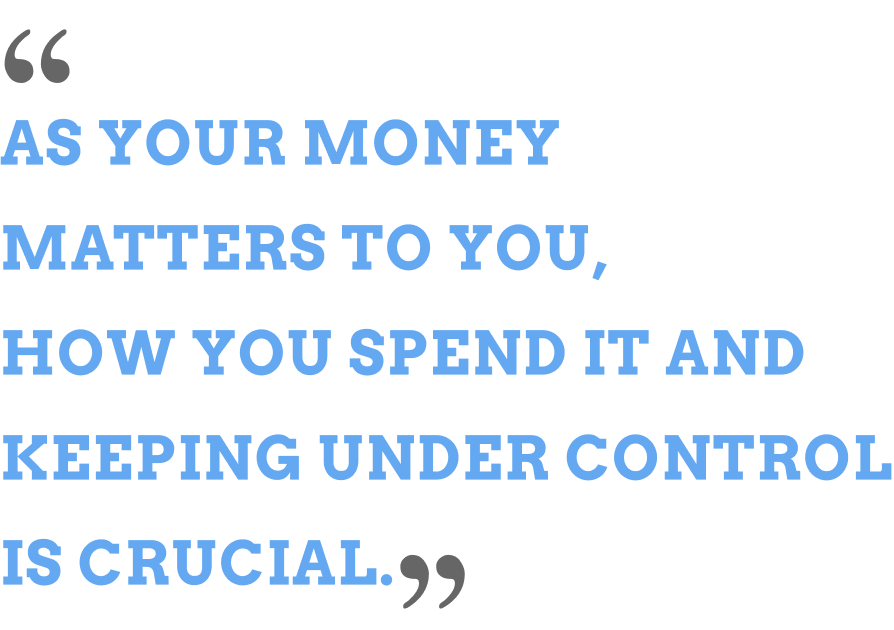
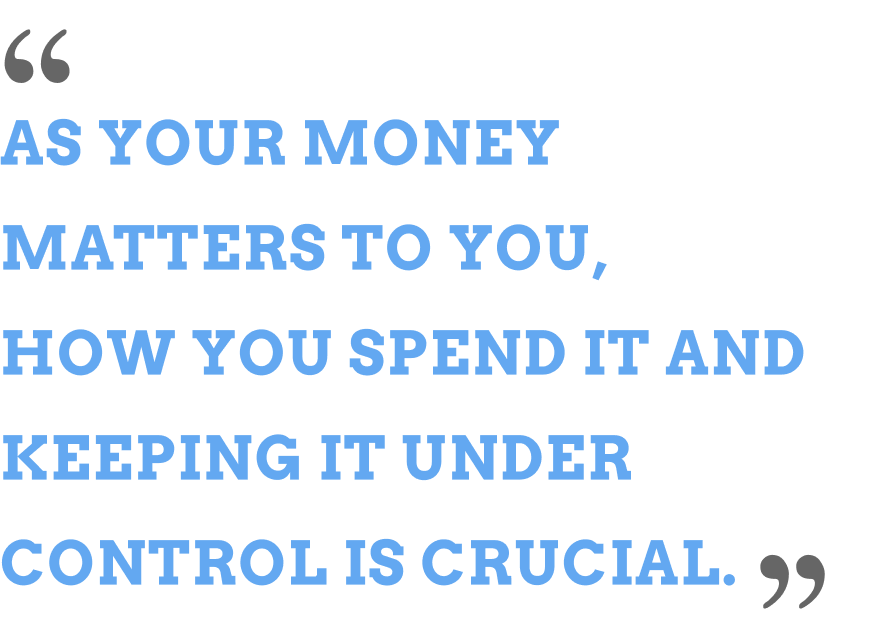
chore: fixing any grammar/spelling errors
I have double-checked any grammar/spelling errors throughout the whole screens.

There were minor contents modifications as well. Depending on the context and the goals, some contents were removed or enhanced for a better explanation.

Changed region(s): [[0.0, 0.8444, 0.9362, 0.9651], [0.3624, 0.6635, 1.0, 0.7841]]

diff --git a/src/Personas.js b/src/Personas.js
@@ -81,13 +81,13 @@ export default function Personas() {
                             <ol>
                                 <li>Aimee goes shopping in the city centre and spends 80 pounds for her mum's birthday present.</li>
                                 <li>As soon as she gets a seat at a cafe after the shopping, she grabs her mobile and opens the Pockie app.</li>
-                                <li>From the home screen, she touches the add button which is located in the centre of the bottom tab navigation.</li>
+                                <li>From the home screen, she touches the Add button which is located in the centre of the bottom tab navigation.</li>
                                 <li>Pockie opens the record screen and Aimee starts filling in the form with her shopping details in the expense section as follows;</li>
-                                <li>In the centre of the screen, she fills in 80 pounds, which was her total expenditure for the shopping earlier, and she chooses the description, 'gift' from the dropdown menu. Finally she saves the details.</li>
-                                <li>After she orders a black coffee at the cafe, she checks her bill and fills in the expense section with 2.50 pounds, and selects 'food & drink' in the same way in the expense section again.</li>
-                                <li>She wants to check that she has been paid from her work today. So, she opens her app and starts filling in the details.</li>
+                                <li>In the centre of the screen, she fills in 80 pounds, which was her total expenditure for the shopping earlier, and she chooses the description, 'gift' from the dropdown menu. Finally she saves the details by touching the Save button.</li>
+                                <li>After she orders a black coffee at the cafe, she checks her bill and fills in the expense section with 2.50 pounds after touching the Add button again, She then selects 'food & drink' from the dropdown menu in the Description section again.</li>
+                                <li>She wants to include her income as she has been paid from her work today. So, she opens her app and starts filling in the details as follows:</li>
                                 <li>She touches the add button in the bottom tab navigation and chooses the income tab on the top.</li>
-                                <li>Next, she fills in the total income of 2,500 pounds with the description as a salary and non-personal mode and saves it.</li>
+                                <li>Next, she fills in the total income of 2,500 pounds with the description as 'salary' and non-personal mode, and saves it.</li>
                                 <li>She tabs the profile screen icon which is positioned on the right hand side of the bottom tab navigation to check the overview of her current finance state.</li>
                                 <li>She can see her profile picture and her name below and she checks that she has spent 105 pounds and 2,500 pounds have come into her account today.</li>
                                 <li>She sees her spending pattern pie chart and realizes that her major expenditures are rent, bills and tax.</li>
@@ -102,14 +102,14 @@ export default function Personas() {
                     <section>
                         <ol>
                             <li>Her partner and Aimee decide to buy a house together for their future.</li>
-                            <li>So, she decided to use Pokie to keep them motivated setting a joint goal with her partner to save more money for a bigger deposit.</li>
+                            <li>So, she decides to use Pokie to keep them motivated, setting a joint goal with her partner to save more money for a bigger deposit.</li>
                             <li>First, her partner opens an account and then adds her as a partner using her id.</li>
                             <li>Now they are able to share their saving goal information together as long as it's not in private mode.</li>
-                            <li>She tabs the button 'set a goal' and it opens up the screen.</li>
-                            <li>And then, she chooses the purpose of the goal as buying a house, sets the joint goal to 10,000 pounds, the duration of saving is set to a year. and she also chooses her partner as a joint saving participant.</li>
-                            <li>Every month, she gets paid, she saves minimum 500 pounds and it has been over 6 months since her partner and she started saving.</li>
-                            <li>She touches the number of saving goal box in the profile screen and it opens up the saving goal screen.</li>
-                            <li>She sees that her partner and she have saved more than half of their aim for the last 6 months and she is very pleased that they are on the right track.</li>
+                            <li>She taps the button 'set a goal' and it opens up the screen.</li>
+                            <li>And then, she chooses the purpose of the goal as buying a house, sets the joint goal to 10,000 pounds and the duration of saving is set to a year. She also chooses her partner as a joint saving participant.</li>
+                            <li>Every month, she gets paid, she saves a minimum 500 pounds and it has been over 6 months since her partner and she started saving.</li>
+                            <li>She touches the number of saving goals box in the profile screen and it opens up the saving goal screen.</li>
+                            <li>She sees that her partner and she have saved more than half of their goal for the last 6 months and she is very pleased that they are on the right track.</li>
                         </ol>
                     </section>
                 </Card.Body>
@@ -131,7 +131,7 @@ export default function Personas() {
                 </Card.Body>
                 <Card.Footer>
                     <small className="text-muted">
-                    Onboarding system may not be able to deliver within the timeline. In this case, I will provide prebuilt user data.
+                    Onboarding system may not be deliverable within the timeline. In this case, I will provide prebuilt user data.
                     </small>
                 </Card.Footer>
             </Card>
@@ -144,7 +144,7 @@ export default function Personas() {
                         <ul>
                             <li>Building a healthy financial habit</li>
                             <li>Taking control of their money</li>
-                            <li>Having a better insight regarding their spending habits</li>
+                            <li>Having better insight regarding their spending habits</li>
                             <li>Being mindful of their financial state</li>
                             <li>Building a transparent financial relationship with others via Pockie</li>
                         </ul>

diff --git a/src/Critique.js b/src/Critique.js
@@ -17,8 +17,8 @@ export default function Critique() {
             <Row className="p-3">
                 <h5 className="font-weight-bold">Target Audience</h5>
                 <section>
-                    As the app can be used by anyone who wishes to have better finance management personally, There is no restriction, such as age, sex or occupation. 
-                    The app could support multiple currencies and it aims for the global market.
+                    As the app can be used by anyone who wishes to have better finance management personally, there is no restriction, such as age, gender or occupation. 
+                    The app could potentially support multiple currencies and it is aimed at the global market.
                 </section>
             </Row>
             <Row className="p-3">
@@ -27,24 +27,25 @@ export default function Critique() {
                     <p>Once I open the application after the signup and creating a wallet, it starts with the screen that I was on when I last used the app.
                     I believe this was intentional from both engineering and ux perspectives. 
                     Most mobile applications take some time to load and they appear to have each splash screen.
-                    My speculation is that the spendee may have aimed to give quicker access to its users in order to quickly update their new finance expenditure or income as a longer loading time could put a strain on usability.</p>
+                    My speculation is that Spendee may have aimed to give quicker access to its users in order to quickly update their new finance expenditure or income as a longer loading time could put a strain on usability.</p>
                     <small>I noticed that a splash screen appears at the first loading of each day.</small>
                 </section>
             </Row>
             <Row className="p-3">
                 <h5 className="font-weight-bold">Home Screen</h5>
                 <section>
-                    <p>Multiple wallets can be created from the Home screen per user.
+                    <p>Multiple wallets per user can be created from the Home screen.
                     They may have started like Pockie and as time went by, they may have added multiple wallet features.
                     This is worth quantitive research to find out what other people would think about the feature.
-                    From my perspective, as this is a personal app, having multiple wallets seems to be unmanageable and cumbersome for users.</p>
+                    From my perspective, as this is a personal app, having multiple wallets could be seen unmanageable and cumbersome for users.
+                    </p>
                     <p>
-                    As customers would be able to check their accounts with mobile banking apps these days, I am not convinced that the main purpose of the finance app is to try to take over those.
+                    As customers are able to check their accounts with mobile banking apps these days, I am not convinced that the main purpose of the finance app is to try to take over from those.
                     Having multiple wallets may be seen as a good feature, but, it seems to be an inordinate feature and I would consider the re-evaluation of it.
-                    Pockie provides personal/joint options for users instead. So, If users want to keep a certain type of expenditure for a personal use, it won't be shared.
+                    Pockie provides personal/joint options for users instead.
                     </p>
                     <p>Spendee is an app to provide an one-way finance system so that users can instantly check their whole financial state as a single source.
-                    But, it tries to carry out multiple purposes for users, I feel it's too bulky and complex, and is quite distracting.</p>
+                    But, as it tries to carry out multiple purposes for users, I feel it's too bulky and complex, and is quite distracting.</p>
                     <div className="container">
                         <div class="row justify-content-center">
                             <p className="col-8">
@@ -94,6 +95,7 @@ export default function Critique() {
                 <h5 className="font-weight-bold">Overview</h5>
                 <section>
                     <p>This is an overview of the wallet. Spendee also has used data visualisation to show users' data in a more intuitive manner.</p>
+                    <p>A Calendar icon is on the top right side corner and when it's touched, users can change the period option to weekly, monthly or yearly.</p>
                     <div className="container">
                         <div class="row justify-content-center">
                             <p className="col-8">
@@ -101,6 +103,13 @@ export default function Critique() {
                             </p>
                         </div>
                     </div>
+                </section>
+            </Row>
+            <Row className="p-3">
+                <h5 className="font-weight-bold">Key takeaways</h5>
+                <section>
+                    <p>As most people use mobile/internet banking these days, Spendee's feature which lets users have multiple wallets based on their number of accounts seems to be rather complex and a repeated process.</p>
+                    <p>After I tried out Spendee for a while, it convinced me to deliver a foolproof and centralized financial app.</p>
                 </section>
             </Row>
         </Layout>

diff --git a/src/Goals.js b/src/Goals.js
@@ -10,19 +10,19 @@ export default function Goals() {
                 <Card.Header>Relational Database Creation</Card.Header>
                 <Card.Body>
                     <p>
-                    This will be the backbone of the application which enable to store user's data and their financial data to interact with the application.
+                    This will be the backbone of the application which enables it to store user's data and their financial data, and to interact with it.
                     </p>
                 </Card.Body>
-                <Card.Footer className="text-muted">Onboarding system may not be able to deliver within the timeline. In this case, I will provide prebuilt user data.</Card.Footer>
+                <Card.Footer className="text-muted">The onboarding system may not be deliverable within the timeline. In such a case, I will provide prebuilt user data.</Card.Footer>
             </Card>
             <Card>
                 <Card.Header>Localization</Card.Header>
                 <Card.Body>
                     <p>
                     This app will provide two currencies, British Pounds and Korean Won.
-                    Based on user's locale data on his/her native device, the main currency will be set up automatically.
-                    Users will be given a choice at the settings whether they want to see the difference between the two currencies.
-                    This feature leaves us the market for the app won't be capped within a country, indicating that the app could potentially be built to target global users.
+                    Based on the user's locale data on his/her native device, the main currency will be set up automatically.
+                    Users will be given a choice at the settings on whether they want to see the difference between the two currencies.
+                    This feature implies the market for the app won't be capped within a country, indicating that the app could potentially be built to target global users.
                     </p>
                 </Card.Body>
             </Card>
@@ -43,9 +43,9 @@ export default function Goals() {
                 <Card.Header>Personalisation & Integration</Card.Header>
                 <Card.Body>
                     <p>
-                    Users can keep track of their income and expenses and it also helps building a healthy habit for users. 
-                    And they can share their financial state with other users to achieve a goal together and to build a transparent partnership.
-                    </p>
+                    Users can keep track of their income and expenses and it also helps to build a healthy habit for users.</p>
+                    <p>Pockie is to help people to keep motivated and awareness of their own financial state and to encourage people to save more money.</p>
+                    <p>Saving goals can be set in either a personal mode or a joint mode and saving data for joint one is integrated into one and all the participants can keep track of the process and their contributions.</p>
                 </Card.Body>
             </Card>
         </CardColumns>

diff --git a/src/Techstacks.js b/src/Techstacks.js
@@ -11,7 +11,7 @@ export default function Techstacks() {
                     <Card.Header>React Native</Card.Header>
                     <Card.Body>
                         <p>
-                        React is a great and the most popular JS library for creating UI components and its features can be used even for native applications
+                        React is a great and popular JS library for creating UI components and its features can even be used for native applications
                         </p>
                     </Card.Body>
                 </Card>
@@ -19,7 +19,7 @@ export default function Techstacks() {
                     <Card.Header>Expo</Card.Header>
                     <Card.Body>
                         <p>
-                        Expo is a great framework for react native using Metro JS bundler to build both of Android and iOS Native Application.
+                        Expo is a great framework for react native using Metro JS bundler to build both Android and iOS Native Applications.
                         </p>
                     </Card.Body>
                 </Card>
@@ -27,7 +27,7 @@ export default function Techstacks() {
                     <Card.Header>Redux</Card.Header>
                     <Card.Body>
                         <p>
-                        A state management library as Pockie will deal with a variety of financial data, having a single source of truth would be more ideal to keep each component more legible and maintainable by applying the design principle, SoC.
+                        Redux is used as a state management library as Pockie will deal with a variety of financial data. Having a single source of truth would be more ideal to keep each component more legible and maintainable by applying the design principle, SoC.
                         </p>
                     </Card.Body>
                 </Card>
@@ -43,8 +43,8 @@ export default function Techstacks() {
                     <Card.Header>PostgreSQL</Card.Header>
                     <Card.Body className="flex">
                         <p>
-                        As you can see the image below, so far there will be 5 relational database table. 
-                        Each Income, Expense, Goal table are connected to User table with each user's unique ID. 
+                        As you can see in the image below, so far there will be 5 relational database tables. 
+                        Each Income, Expense and Goal table is connected to User table with each user's unique ID. 
                         </p>
                         <p>
                             <img src={Database} width="260" alt="pockie database" />

diff --git a/src/prototypes/GoalScreen.js b/src/prototypes/GoalScreen.js
@@ -15,11 +15,11 @@ export default function GoalScreen() {
             <p>Users can check each saving goal's progress with a bar graph and other participants.</p>
             <dl>
               <dt className="sub__title">Personal goal</dt>
-              <dd className="sub__context">User can see how much progress he/she has made with a progress bar. And it shows how many day/week/month left </dd>
+              <dd className="sub__context">Users can see how much progress they have made with a progress bar, and it shows how many days/weeks/months are left </dd>
             </dl>
             <dl>
               <dt className="sub__title">Joint goal</dt>
-              <dd className="sub__context">It has the same functionalities with Personal goal. On top of that, the current user tabs the partner tag, it would show the contribution over the pregress bar.</dd>
+              <dd className="sub__context">It has the same functionalities as the Personal goal. On top of that, when the current user touches the partner tag, it would show the contribution over the progress bar.</dd>
             </dl>
           </div>
           <img src={View} width="340" alt="Viewing saving goals Screen" className="mobile__img" />
@@ -33,11 +33,11 @@ export default function GoalScreen() {
             <ol>
                 <li>
                   <p>Choose the purpose of saving</p>
-                  <small className="reference">It will be a dropdown menu with a set of certain purpose. If none of them are related, users can choose 'others'.</small>
+                  <small className="reference">It will be a dropdown menu with a series of certain purposes. If none of them are related to the user's purpose, they can choose 'others'.</small>
                 </li>
                 <li>The amount of saving</li>
                 <li>The period of saving</li>
-                <li>If users set the goal jointly, users can see their financial partners and choose participants for the saving.</li>
+                <li>If users set the goal jointly, they can see their financial partners and choose participants for the goal.</li>
             </ol>
           </div>
           <img src={Set} width="340" alt="Setting a saving goal Screen" className="mobile__img" />

diff --git a/src/prototypes/RecordScreen.js b/src/prototypes/RecordScreen.js
@@ -2,7 +2,8 @@ import React from 'react';
 import { Col, Row } from 'react-bootstrap';
 
 import Layout from '../components/Layout';
-import Record from '../assets/images/expense_screen.png';
+import Expense from '../assets/images/expense_screen.png';
+import Saving from '../assets/images/saving_screen.png';
 
 export default function RecordScreen() {
   return (
@@ -11,14 +12,20 @@ export default function RecordScreen() {
         <Row className="p-3">
           <div className="screen__context">
             <h6 className="screen__type">Daily Record Screen</h6>
-            <p>The center button(+) On the bottom tab menu leads users to this screen. Users can record their income, expense and saving details on this screen.</p>
-            <p>Each details will be sent to the database server and stored into respective database models. Users can choose whether they want to share the details or not if they have joint account.</p>
+            <p>The centre button(+) On the bottom tab menu from the profile screen leads users to this screen. Users can record their income, expense and saving details on this screen.</p>
+            <p>Each detail will be sent to the database server and stored into respective database models.</p>
+            <p>For the saving tab, users can choose either personal mode or joint mode. The default value can differ whether users choose personal saving goal or not.</p>
             <dl>
               <dt className="sub__title">Description</dt>
-              <dd className="sub__context">This will be a dropdown menu. Depending on the category(expense/income/saving), the list will vary.</dd>
+              <dd className="sub__context">This will be a dropdown menu. Depending on the category(expense/income/saving), the list of the dropdown menu will vary.</dd>
             </dl>
           </div>
-          <img src={Record} width="340" alt="Pockie User Screen" className="mobile__img" />
+          <p>
+            <img src={Expense} className="mobile__img" width="340" alt="Pockie Expense transaction" />
+          </p>
+          <p>
+            <img src={Saving} className="mobile__img" width="340" alt="Pockie Saving transaction" />
+          </p>
         </Row>
       </Col>
     </Layout>

diff --git a/src/Home.js b/src/Home.js
@@ -16,8 +16,8 @@ export default function Home() {
                 up with their expenses and to help them to maintain a
                 healthier financial state. Pockie gives users more
                 control over their money as the app provides services
-                such as, analyzing their spending habits and their usual
-                consumption patterns. It also keeps track of their daily
+                such as, analyzing their spending habits(data visualisation) and their usual
+                consumption patterns. It also allows users to keep track of their 
                 expenses, so they can be more reflective and self-manage
                 their financial state.
             </p>
@@ -25,17 +25,13 @@ export default function Home() {
                 Furthermore, Pockie enables users to achieve a goal or
                 multiple goals with others and to have more transparent
                 money management amongst other users, such as a partner,
-                parents or colleagues, simply by inviting them over.
-                This means that Pockie is not only a personal app but
-                also, it can provide a bookkeeping service for a small
-                business or organisation to keep financial transparency
-                amongst shareholders.
+                parents, simply by inviting them over.
             </p>
             <p>
                 As we live in a modern society promoting consumer
-                culture, we often neglect our money management. <b>As your
-                money matters to you, how you spend it and keeping under
-                control is crucial.</b>
+                culture, we often neglect our money management. As your
+                money matters to you, how you spend it and keeping it under
+                control is crucial.
             </p>
         </Row>
     </Layout>

diff --git a/src/prototypes/ProfileScreen.js b/src/prototypes/ProfileScreen.js
@@ -14,13 +14,12 @@ export default function ProfileScreen() {
             <p>This is the main user profile screen which will appear once a user logs in.</p>
             <ul>
                 <li>
-                  <p>The Slide Button on the Top left side is to let users choose whether they want to see the other currency rate based on their main currency</p>
-                  <p>After an investigation, the live currency conversion service is not available as all of commercial currency API only offer the conversion service with a paid membership. I will just use the average rate for this occasion.</p>
+                  <p>The Slide button on the top left side is to let users choose whether they want to see the other currency rate based on their main currency selection.</p>
+                  <p>After investigation, the live currency conversion service is not available as all commercial currency API only offer the conversion service with a paid membership. As such, the average rate will be for this occasion.</p>
                 </li>
                 <li>Users can see their daily expense and income below their profile image and name</li>
-                <li>Spending Pattern can be interpreted readily by a pie chart during a certain period of time</li>
-                <li>Saving goals can be set</li>
-                <li>Users can invite other users and share their financial state with them</li>
+                <li>Spending patterns can be interpreted readily by a pie chart during a certain period of time so that users can easily tell their spending habits.</li>
+                <li>Saving goals can be set from this screen.</li>
             </ul>
           </div>
           <img src={Profile} width="340" alt="Pockie User Screen" className="mobile__img" />

diff --git a/src/prototypes/InitialScreen.js b/src/prototypes/InitialScreen.js
@@ -12,7 +12,7 @@ export default function InitialScreen() {
         <Row className="p-3">
           <div className="screen__context">
             <h6 className="screen__type">Splash Screen</h6>
-            <p>This is the screen which will appear during the initial app loading.</p>
+            <p>This is the screen which will appear while the initial app loads.</p>
           </div>
           <img src={Splash} width="340" alt="Pockie Splash Screen" className="mobile__img" />
         </Row>
@@ -22,7 +22,7 @@ export default function InitialScreen() {
           <div className="screen__context">
             <h6 className="screen__type">Login/SignUp Screen</h6>
             <p>A new user is required to sign up before using the app and current users need to log in to record their data.</p>
-            <p>Onboarding System is not in the scope of this version. Depending on the progression of the development, I may provide prebuilt user data for testing.</p>
+            <p>An Onboarding System is not in the scope of this version. Depending on the progression of the development, I may provide prebuilt user data for testing.</p>
           </div>
             <img src={Login} width="340" alt="Pockie Login Screen" className="mobile__img" />
         </Row>

diff --git a/src/prototypes/FinanceScreen.js b/src/prototypes/FinanceScreen.js
@@ -12,7 +12,7 @@ export default function FinanceScreen() {
         <Row className="p-3">
           <div className="screen__context">
             <h6 className="screen__type">Weekly State Screen</h6>
-            <p>Users can see their weekly expense, income and saving details. It will be created as an accordion tab.</p>
+            <p>Users can see their weekly expenses, income and savings details. It will be created as an accordion tab.</p>
           </div>
           <img src={Weekly} width="340" alt="Pockie Invite Screen" className="mobile__img" />
         </Row>
@@ -21,7 +21,7 @@ export default function FinanceScreen() {
         <Row className="p-3">
           <div className="screen__context">
             <h6 className="screen__type">Monthly State Screen</h6>
-            <p>Users can check monthly finance state up to 6 months.</p>
+            <p>Users can check their monthly finance state up to 6 months.</p>
           </div>
           <img src={Monthly} width="340" alt="Pockie Invite Screen" className="mobile__img" />
         </Row>

diff --git a/src/prototypes/InviteScreen.js b/src/prototypes/InviteScreen.js
@@ -11,7 +11,7 @@ export default function InviteScreen() {
         <Row className="p-3">
           <div className="screen__context">
             <h6 className="screen__type">Invitation Screen</h6>
-            <p>Each users can invite other users who have Pockie current accounts.</p>
+            <p>Each user can invite other users who have Pockie current accounts.</p>
           </div>
           <img src={Invite} width="340" alt="Pockie Invite Screen" className="mobile__img" />
         </Row>
